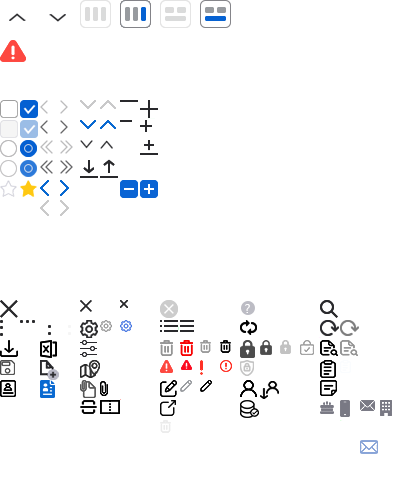
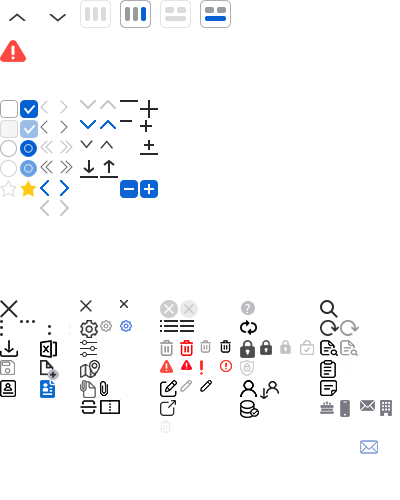
파비콘 수정, 닫기아이콘 disabled 추가

diff --git a/view/bizStateRegister.html b/view/bizStateRegister.html
@@ -1591,7 +1591,7 @@
                                                                 </td>
                                                                 <td>2024.01.01</td>
                                                                 <td>
-                                                                    <i class="ico delete_bg"></i>
+                                                                    <i class="ico delete_bg disabled"></i>
                                                                 </td>
                                                             </tr>                                                                  
                                                             <tr>

diff --git a/view/dashboard.html b/view/dashboard.html
@@ -7,7 +7,7 @@
     <title>대시보드</title>
     
     <!-- 파비콘 240215 추가 -->
-    <link rel="shortcut icon" type="image/x-icon" href="../assets/img/pms/favicon_pms.ico">
+    <link rel="shortcut icon" type="image/x-icon" href="../assets/img/pms/favicon_epms.ico">
 
     <!-- <link rel="stylesheet" href="../assets/css/style.css"> -->
     <link rel="stylesheet" href="../assets/css/style_pms.css">      
